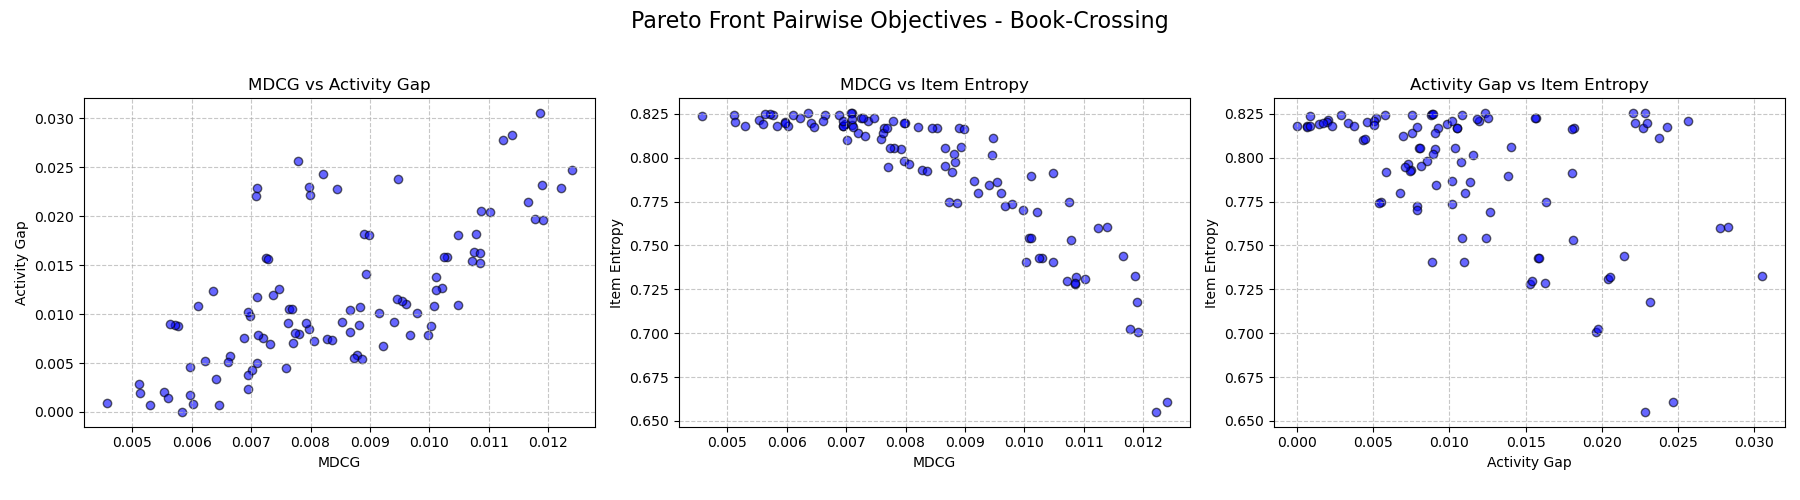
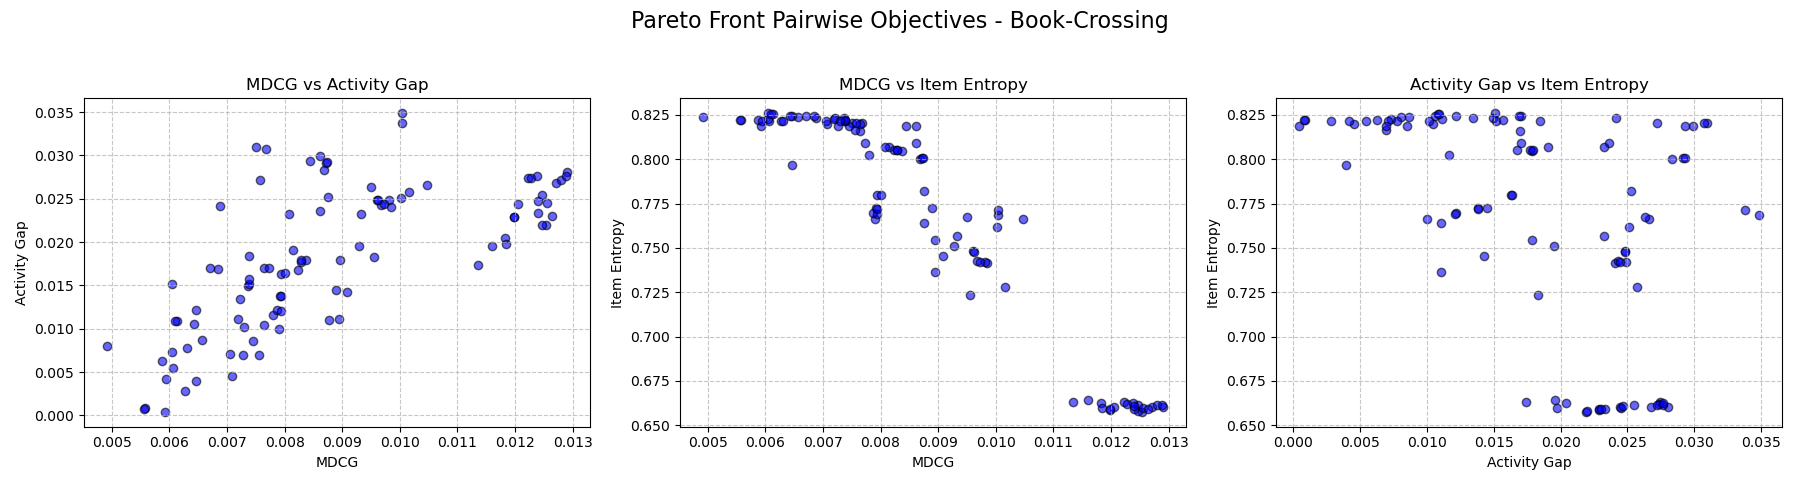
Implement insertion mutation and ordered crossover

diff --git a/genetic_recommender.py b/genetic_recommender.py
@@ -144,22 +144,29 @@ class GeneticRecommender:
 
     def crossover(self, parent1, parent2):
         """
-        Partially Mapped Crossover (PMX).
+        Order Crossover (OX).
         Applied individually to each user's permutation.
+        Preserves relative ordering from parents, which is better for ranking problems.
         """
         child1 = np.empty_like(parent1)
         child2 = np.empty_like(parent2)
 
         for u in range(self.num_users):
-            c1_row, c2_row = self._pmx_1d(parent1[u], parent2[u])
+            c1_row, c2_row = self._ox_1d(parent1[u], parent2[u])
             child1[u] = c1_row
             child2[u] = c2_row
 
         return child1, child2
 
-    def _pmx_1d(self, p1, p2):
+    def _ox_1d(self, p1, p2):
         """
-        Helper for PMX on a single permutation (1D array).
+        Helper for Order Crossover (OX) on a single permutation (1D array).
+
+        Algorithm:
+        1. Select two crossover points
+        2. Copy the segment between points from parent1 to child1
+        3. Fill remaining positions with genes from parent2 in order, skipping duplicates
+        4. Symmetric operation for child2
         """
         size = len(p1)
         # Select two random cut points
@@ -171,53 +178,46 @@ class GeneticRecommender:
         c1 = np.full(size, -1, dtype=p1.dtype)
         c2 = np.full(size, -1, dtype=p2.dtype)
 
-        # Copy segments
+        # Copy segments from respective parents
         c1[start:end] = p1[start:end]
         c2[start:end] = p2[start:end]
 
-        p1_seg_set = set(p1[start:end])
-        p2_seg_set = set(p2[start:end])
+        # Create sets for quick lookup of copied genes
+        c1_set = set(p1[start:end])
+        c2_set = set(p2[start:end])
 
-        # Let's map value -> index in segment P1
-        p1_seg_map = {val: idx for idx, val in enumerate(p1[start:end])}
-        # p2_seg_map = {val: idx for idx, val in enumerate(p2[start:end])} # relative index 0..len
-
-        # Fill Child 1
+        # Fill child1 with genes from parent2 (in order, starting after end)
+        # Wrap around the chromosome
+        fill_pos = end % size
         for i in range(size):
-            if start <= i < end:
-                continue
+            gene = p2[(end + i) % size]
+            if gene not in c1_set:
+                c1[fill_pos] = gene
+                fill_pos = (fill_pos + 1) % size
+                # Skip the copied segment
+                if fill_pos == start:
+                    fill_pos = end % size
 
-            candidate = p2[i]
-
-            while candidate in p1_seg_set:
-                rel_idx = p1_seg_map[candidate]
-                candidate = p2[start + rel_idx]
-
-            c1[i] = candidate
-
-        # Fill Child 2 (Symmetric)
-        p2_seg_map = {val: idx for idx, val in enumerate(p2[start:end])}
-
+        # Fill child2 with genes from parent1 (in order, starting after end)
+        fill_pos = end % size
         for i in range(size):
-            if start <= i < end:
-                continue
-
-            candidate = p1[i]
-            while candidate in p2_seg_set:
-                rel_idx = p2_seg_map[candidate]
-                candidate = p1[start + rel_idx]
-
-            c2[i] = candidate
+            gene = p1[(end + i) % size]
+            if gene not in c2_set:
+                c2[fill_pos] = gene
+                fill_pos = (fill_pos + 1) % size
+                # Skip the copied segment
+                if fill_pos == start:
+                    fill_pos = end % size
 
         return c1, c2
 
-    def mutate(self, individual, mutation_rate=0.01):
+    def insert_mutate(self, individual, mutation_rate):
         """
-        Swap Mutation.
-        For each user, with prob mutation_rate, swap two items in their list.
+        Insert/Slide Mutation.
+        For each mutated user, removes an item from one position and inserts it at another.
+        This provides finer positional adjustments compared to swap mutation,
+        which is particularly useful for ranking problems.
         """
-
-        # Optimization: Only mutate some users
         num_mutations = int(self.num_users * mutation_rate)
         if num_mutations == 0:
             return individual
@@ -225,22 +225,29 @@ class GeneticRecommender:
         users_to_mutate = np.random.choice(self.num_users, num_mutations, replace=False)
 
         for u in users_to_mutate:
-            # Select a position within top-k to swap out
-            idx1 = np.random.randint(0, self.top_k)
+            # Select source position (where to remove from)
+            idx_from = np.random.randint(0, self.candidate_len)
 
-            # Select a different position from the candidate list to swap in
-            # Ensure idx2 != idx1 to avoid no-op swaps
-            # We pick from [top_k, candidate_len) to always bring in a new item
-            if self.candidate_len > self.top_k:
-                idx2 = np.random.randint(self.top_k, self.candidate_len)
+            # Select destination position (where to insert)
+            # Ensure different from source to avoid no-op
+            idx_to = np.random.randint(0, self.candidate_len - 1)
+            if idx_to >= idx_from:
+                idx_to += 1
+
+            # Perform insert mutation: remove from idx_from, insert at idx_to
+            item = individual[u, idx_from]
+            if idx_from < idx_to:
+                # Shift elements left to fill the gap, then insert
+                individual[u, idx_from:idx_to] = individual[
+                    u, idx_from + 1 : idx_to + 1
+                ]
+                individual[u, idx_to] = item
             else:
-                # Edge case: candidate_len == top_k, pick any different index
-                idx2 = (idx1 + 1) % self.candidate_len
-
-            individual[u, idx1], individual[u, idx2] = (
-                individual[u, idx2],
-                individual[u, idx1],
-            )
+                # Shift elements right to make room, then insert
+                individual[u, idx_to + 1 : idx_from + 1] = individual[
+                    u, idx_to:idx_from
+                ]
+                individual[u, idx_to] = item
 
         return individual
 
@@ -267,7 +274,7 @@ class GeneticRecommender:
 
         return selected
 
-    def run(self, generations=10, pop_size=20, crossover_rate=0.8, mutation_rate=0.1):
+    def run(self, generations, pop_size, crossover_rate, mutation_rate):
         population = self.initialize_population(pop_size)
 
         best_overall = None
@@ -319,8 +326,8 @@ class GeneticRecommender:
                 else:
                     c1, c2 = p1.copy(), p2.copy()
 
-                c1 = self.mutate(c1, mutation_rate)
-                c2 = self.mutate(c2, mutation_rate)
+                c1 = self.insert_mutate(c1, mutation_rate)
+                c2 = self.insert_mutate(c2, mutation_rate)
 
                 next_pop.append(c1)
                 if len(next_pop) < pop_size:
@@ -495,7 +502,7 @@ class NsgaIIRecommender(GeneticRecommender):
 
         return selected
 
-    def run(self, generations=10, pop_size=20, crossover_rate=0.8, mutation_rate=0.1):
+    def run(self, generations, pop_size, crossover_rate, mutation_rate):
         print(f"Starting NSGA-II Evolution: Pop={pop_size}, Gens={generations}")
 
         population = self.initialize_population(pop_size)
@@ -530,8 +537,8 @@ class NsgaIIRecommender(GeneticRecommender):
                 else:
                     c1, c2 = p1.copy(), p2.copy()
 
-                c1 = self.mutate(c1, mutation_rate)
-                c2 = self.mutate(c2, mutation_rate)
+                c1 = self.insert_mutate(c1, mutation_rate)
+                c2 = self.insert_mutate(c2, mutation_rate)
 
                 offspring_pop.append(c1)
                 if len(offspring_pop) < pop_size:

diff --git a/main.py b/main.py
@@ -38,6 +38,8 @@ CANDIDATE_SIZE = 100  # Number of candidates per user for re-ranking
 POP_SIZE = 100  # Population size for GA/NSGA-II
 GENERATIONS = 10  # Number of generations for evolution
 K_NDCG = 10  # Top-K for NDCG evaluation
+CROSSOVER_RATE = 0.8  # Crossover probability for genetic operators
+MUTATION_RATE = 0.2  # Mutation probability for genetic operators
 
 
 def run_pipeline(
@@ -70,6 +72,9 @@ def run_pipeline(
     print(f"Train Matrix Shape: {train_matrix.shape}")
     print(f"Validation Matrix Shape: {val_matrix.shape}")
     print(f"Test Matrix Shape: {test_matrix.shape}")
+    print(
+        f"GA Parameters: Pop={POP_SIZE}, Gen={GENERATIONS}, Crossover={CROSSOVER_RATE}, Mutation={MUTATION_RATE}, Candidates={CANDIDATE_SIZE}, Top-K={k_ndcg}"
+    )
 
     # --- Validate user_ids ordering matches matrix indices ---
     # This is critical for ensuring activity_map lookups are consistent.
@@ -212,7 +217,12 @@ def run_pipeline(
     # Inject the validation-set IDCG values for optimization
     ga.set_user_idcg_values(val_user_idcg_scores)
 
-    best_ind, history = ga.run(generations=GENERATIONS, pop_size=POP_SIZE)
+    best_ind, history = ga.run(
+        generations=GENERATIONS,
+        pop_size=POP_SIZE,
+        crossover_rate=CROSSOVER_RATE,
+        mutation_rate=MUTATION_RATE,
+    )
 
     # --- Final Evaluation of GA on Test Set ---
     # We take the best individual (list of indices) and evaluate against Test Matrix.
@@ -263,7 +273,12 @@ def run_pipeline(
     # Inject validation-set IDCG for optimization
     nsga.set_user_idcg_values(val_user_idcg_scores)
 
-    pareto_front, history_nsga = nsga.run(generations=GENERATIONS, pop_size=POP_SIZE)
+    pareto_front, history_nsga = nsga.run(
+        generations=GENERATIONS,
+        pop_size=POP_SIZE,
+        crossover_rate=CROSSOVER_RATE,
+        mutation_rate=MUTATION_RATE,
+    )
 
     # --- Pareto Front Visualization (VALIDATION Set Metrics) ---
     # NOTE: This plot shows metrics computed against the VALIDATION set (nsga.target_matrix),
